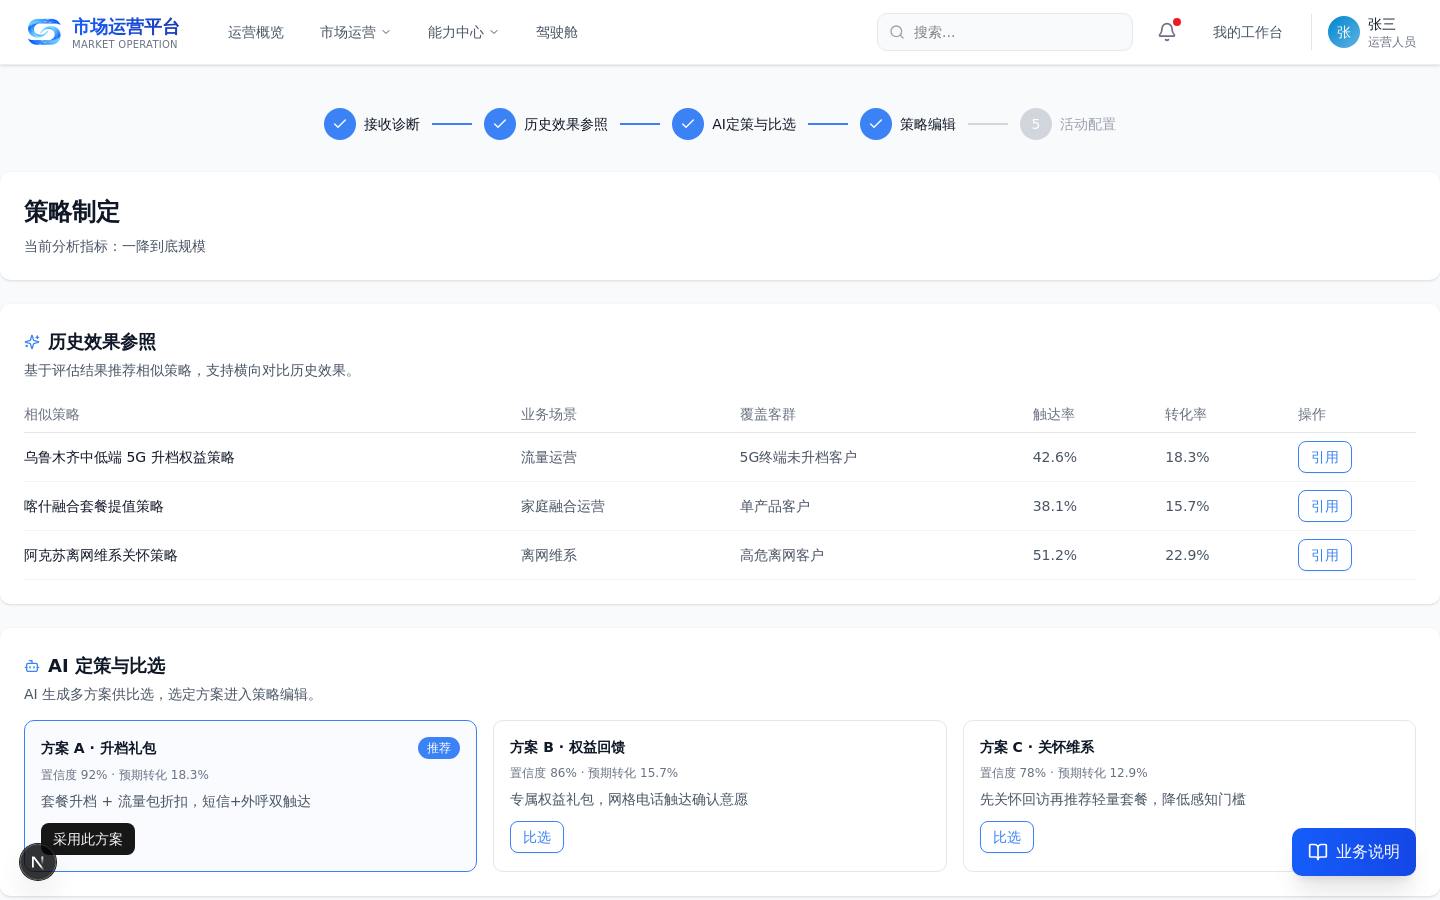
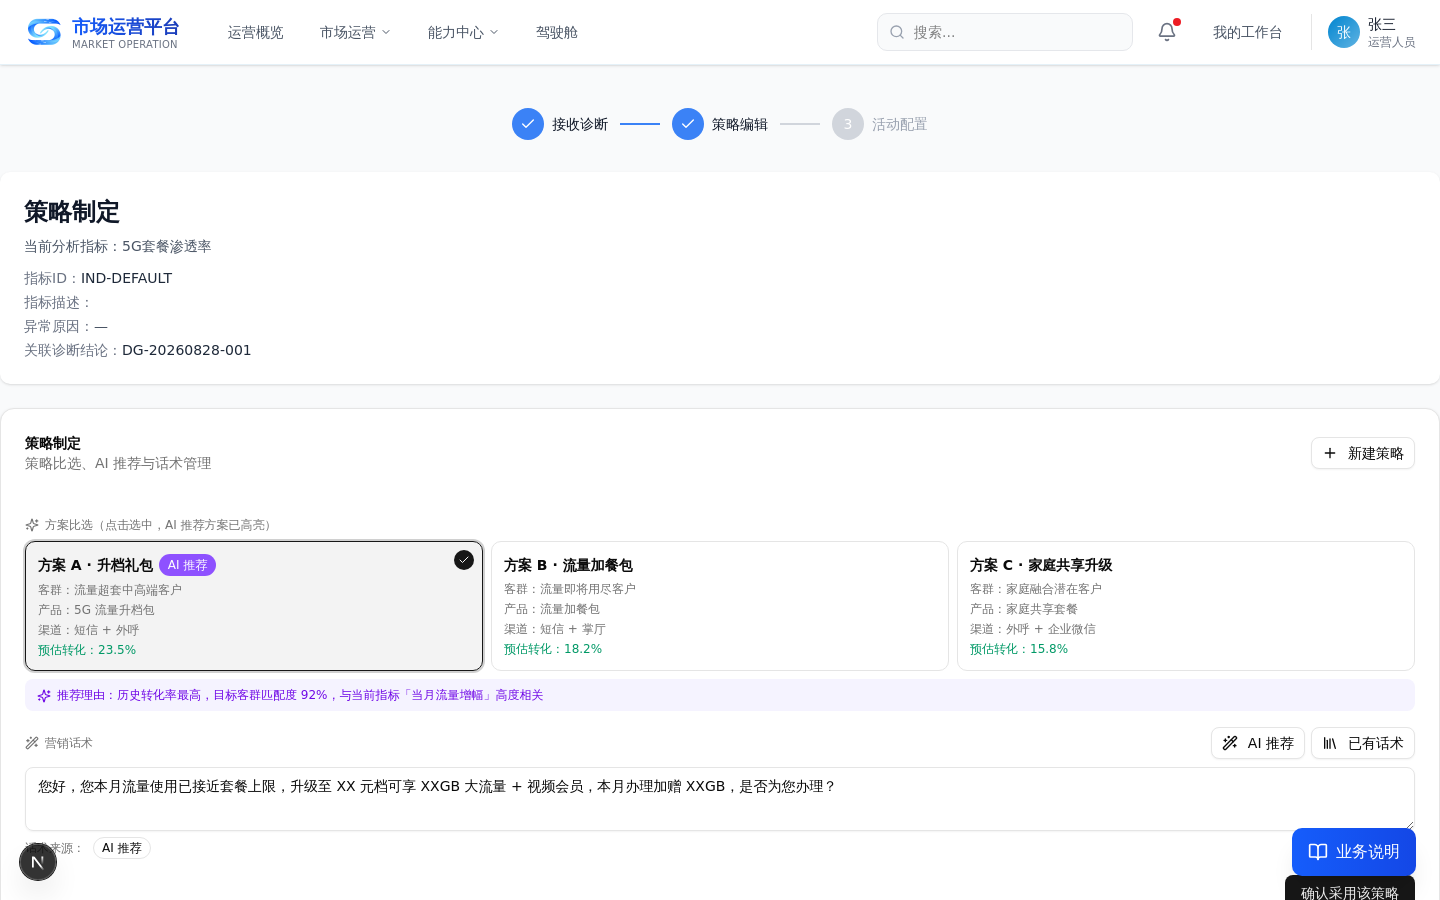
docs: 更新策略中心操作手册至三步定策现状并重截策略匹配页截图
Coze-Commit-Type: user
Coze-User-ID: 2433654896219482
Coze-Conversation-ID: 426236468965890

diff --git a/docs/操作手册/策略中心全流程操作手册.md b/docs/操作手册/策略中心全流程操作手册.md
@@ -13,7 +13,7 @@
 洞察中心          策略中心（枢纽）               调度中心          评估中心
 ────────          ─────────────────               ────────          ────────
 指标洞察 ──诊断结论──▶ ①接收诊断(受理)
-根因诊断            ②策略匹配(五步定策)            派发配置
+根因诊断            ②策略匹配(三步定策)            派发配置
 圈选客群            ③活动配置(三类Tab)  ──活动实例──▶ 工单下发     ──执行结果──▶ 策略分析
                     ④策略审批(通过)               执行监控                        效果库
                                                             │
@@ -24,7 +24,7 @@
 | 环节 | 中心 | 关键页面 | 说明 |
 |---|---|---|---|
 | ① 洞察 | 洞察中心 | 洞察总览 | 指标异常检测、根因诊断、圈选客群，产出诊断结论 |
-| ② 策略制定 | 策略中心 | 接收诊断 / 策略匹配 / 活动配置 / 策略审批 | 受理诊断、五步定策、配置活动实例、审批 |
+| ② 策略制定 | 策略中心 | 接收诊断 / 策略匹配 / 活动配置 / 策略审批 | 受理诊断、三步定策、配置活动实例、审批 |
 | ③ 调度 | 调度中心 | 调度总览 / 活动全链路追踪 | 派发配置、工单下发、执行监控、全程追踪 |
 | ④ 评估（策略分析） | 评估中心 | 评估中心策略分析 / 效果库 | 效果评估、干预/未干预对比、AI 复盘 |
 | ⑤ 沉淀 | 策略沉淀/知识库 | 模板管理 / 最佳实践 / 策略总览 | 复盘沉淀、模板复用、闭环看板 |
@@ -71,33 +71,32 @@
 3. 受理后系统记录受理人、受理时间、处置结论。
 
 **数据来源**：洞察中心诊断结论。
-**下游消费**：承接的诊断进入「策略匹配」五步定策。
+**下游消费**：承接的诊断进入「策略匹配」三步定策。
 
 ---
 
-#### 2.2 策略匹配（五步定策）
+#### 2.2 策略匹配（三步定策）
 
 **入口路径**：接收诊断页点击「承接」→ 进入策略匹配；或顶部导航「能力中心 > 策略中心 > 策略匹配」
 
-**页面**：策略匹配（五步定策）
+**页面**：策略匹配（三步定策）
 
 ![策略匹配](assets/03-matching.png)
 
-**操作要点**（五步链路）：
-1. **① 接收诊断**：查看带入的诊断结论与处置补全信息；
-2. **② 历史效果参照**：查看相似历史策略的转化率、覆盖、触达等效果，支持横向对比；
-3. **③ AI 定策与比选**：查看 2~3 个候选方案（含置信度、预期效果、要素差异），选定方案；
-4. **④ 策略编辑**：编辑根因指标、产品、话术、渠道等策略要素；
-5. **⑤ 活动配置**：点击「下一步」进入活动配置统一页。
+**页面结构**（步骤条：接收诊断 → 策略编辑 → 活动配置）：
+1. **指标信息卡片**：查看带入的诊断结论与当前分析指标信息（指标名称、指标ID、指标描述、异常原因、关联诊断结论）；
+2. **策略制定**：方案比选（A/B/C 候选方案，AI 推荐方案高亮）+ 营销话术管理（AI 推荐 / 已有话术 / 自主输入）+ 新建策略；
+3. **策略编辑**：新增根因指标、编辑原因分析、配置客群与策略要素；
+4. **去调度**：点击「去调度」打开策略调度弹窗，复用策略调度工单流程完成派发。
 
-**数据来源**：效果库历史策略、策略库、根因库。
-**下游消费**：选定策略进入「活动配置」生成活动实例。
+**数据来源**：接收诊断带入的诊断结论、策略库、话术库。
+**下游消费**：点击「去调度」进入策略调度流程，生成调度工单。
 
 ---
 
 #### 2.3 活动配置统一页
 
-**入口路径**：策略匹配页点击「下一步」；或顶部导航「能力中心 > 策略中心 > 活动配置」
+**入口路径**：顶部导航「能力中心 > 策略中心 > 活动配置」；或策略匹配页点击「新建策略」打开新建活动弹窗
 
 **页面**：活动配置统一页
 
@@ -223,10 +222,10 @@
 **操作要点**：
 1. 查看策略模板与话术模板；
 2. 查看被引用次数、最近引用时间；
-3. 点击「**应用此模板**」带入下一轮定策（回填历史效果参照）。
+3. 点击「**应用此模板**」跳转策略匹配页，开启新一轮定策。
 
 **数据来源**：AI 复盘模板候选、用户保存的自定义模板。
-**下游消费**：模板带入「策略匹配」五步定策。
+**下游消费**：模板带入「策略匹配」三步定策。
 
 ---
 
@@ -274,7 +273,7 @@
 |---|---|---|
 | 1 | 洞察总览 | 查看指标异常/根因诊断，产出诊断结论 |
 | 2 | 接收诊断 | 对待处理诊断执行「承接」 |
-| 3 | 策略匹配 | 五步定策：②历史效果参照 → ③AI 定策比选 → ④策略编辑 |
+| 3 | 策略匹配 | 三步定策：策略制定（方案比选+话术）→ 策略编辑 → 去调度 |
 | 4 | 活动配置 | 选活动类型 → 配客群/渠道/话术/产品/观察周期/业务指标 → 生成活动实例 |
 | 5 | 策略审批 | 审批通过活动实例 |
 | 6 | 调度总览 | 查看派发与执行 |
